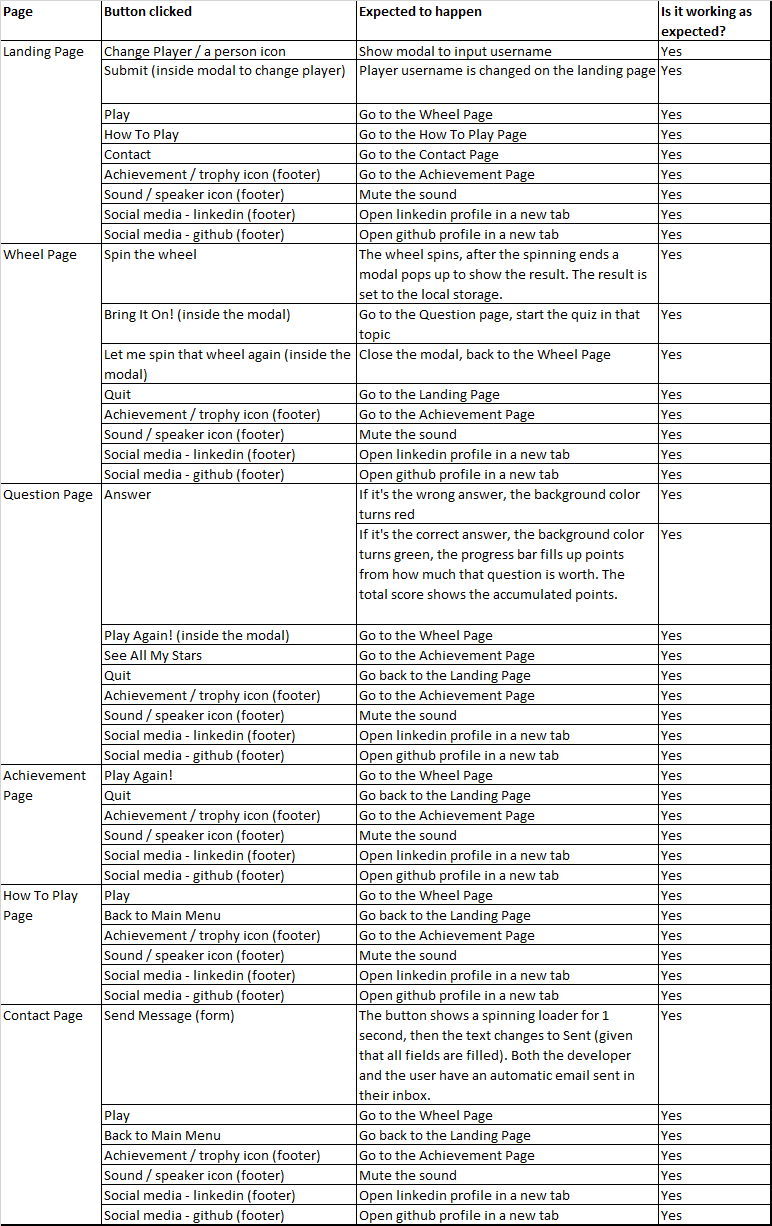
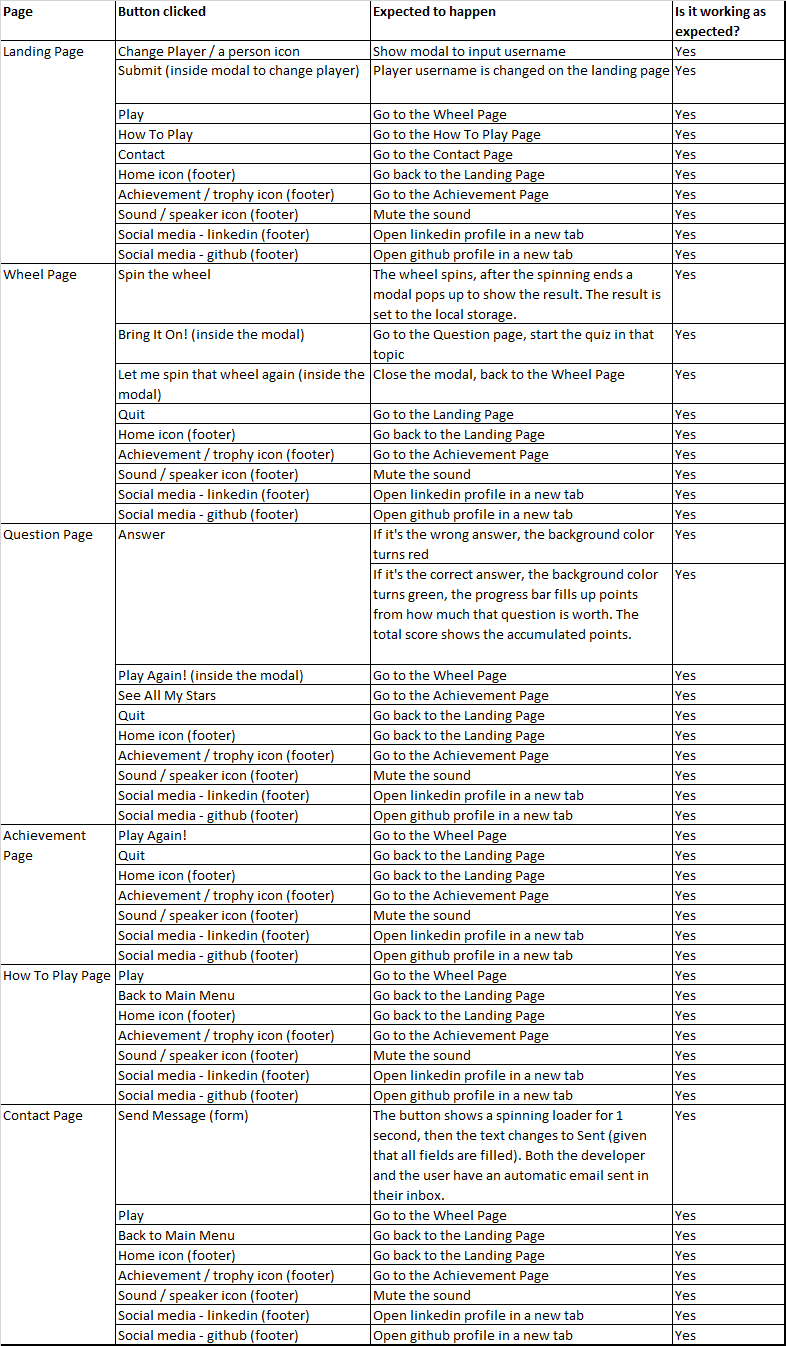
Add home button explanation to the Testing file

Changed region(s): [[0.0, 0.0, 0.9948, 1.0]]

diff --git a/TESTING.md b/TESTING.md
@@ -32,8 +32,8 @@
     As a first time visitor, I want to:  
     - Easily navigate throughout the site between pages, to play or to quit the game.   
        * To play the game, the user can click the Play buttons which are available throughout the website, so that the user doesn’t have to go back to the main menu first. As explained in the Features section of the Readme, the Play Button is available on the Landing Page, How To Play Page, Contact Page, on modal pop up after the questions are done, and on the Achievement Page.  
-       * To quit the game, the user can simply click the Quit button on the Wheel page and the Achievement page. However, the user can not quit the game in the middle of answering the 10 questions, as that is one of the rules of the game. After answering 10 questions or after getting a star, a modal will pop up, and only then the Quit button is made available to the user.  
-       * The Footer is displayed at the bottom of every page. In the footer, the user can navigate easily to the Achievement Page and can toggle the sound on/ off as well.  
+       * To quit the game, the user can simply click the Quit button on the Wheel page and the Achievement page, or the home button inside the Footer. 
+       * The Footer is displayed at the bottom of every page. In the footer, the user can navigate easily to the Main Menu and the Achievement Page, and can toggle the sound on/ off as well.  
 
     - Play the game intuitively without first reading the instruction.  
        * Icons were used conventionally for buttons to allow the user to click intuitively.  
